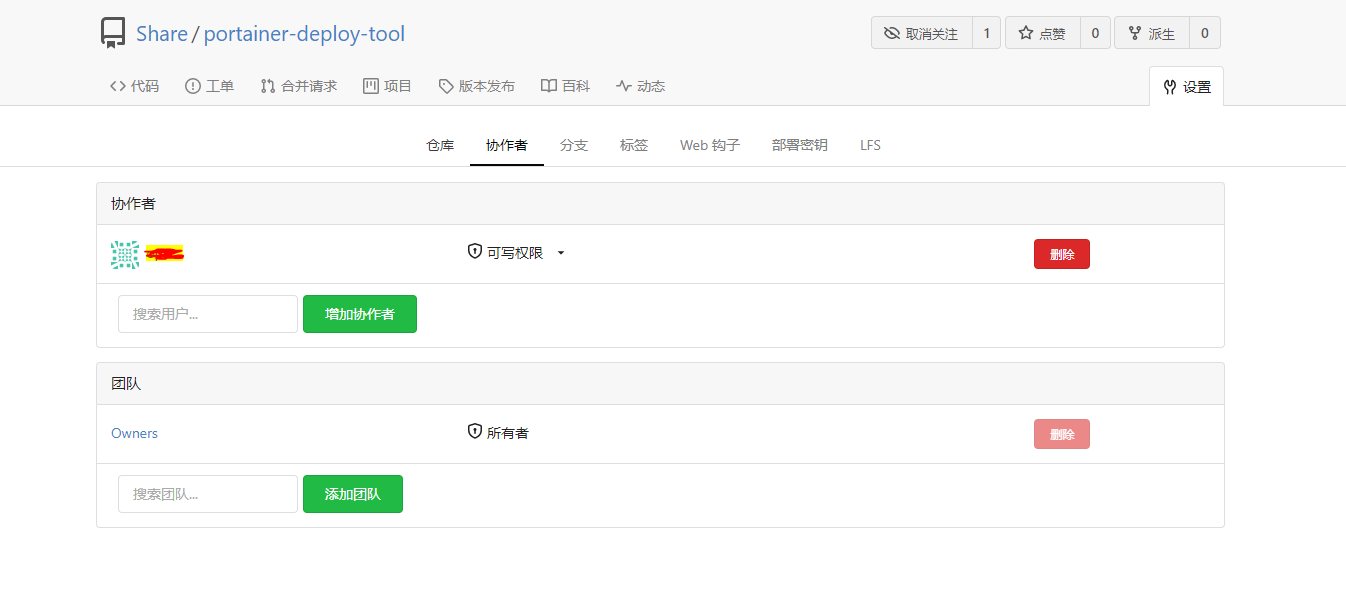
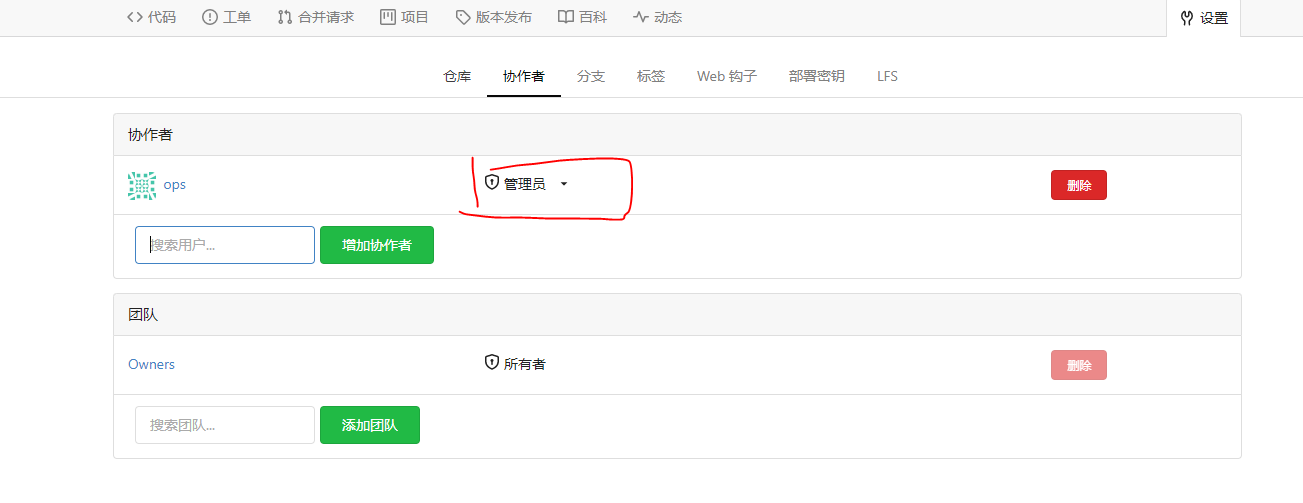
update

diff --git a/_posts/2020-12-02-使用Jenkins代替GithubActions自动化工作流.md b/_posts/2020-12-02-使用Jenkins代替GithubActions自动化工作流.md
@@ -123,7 +123,7 @@ jenkins-server:
 
     ![生成令牌]({{site.url}}/img/in-post/jenkins/gitea-生成令牌.PNG)
 
-3. 将所有需要让jenkins管理cicd的代码库都添加上新建的用户为协作者,并给它写权限
+3. 将所有需要让jenkins管理cicd的代码库都添加上新建的用户为协作者,并给它管理员权限
 
     ![设置协作者]({{site.url}}/img/in-post/jenkins/gitea-协作者.PNG)
 
